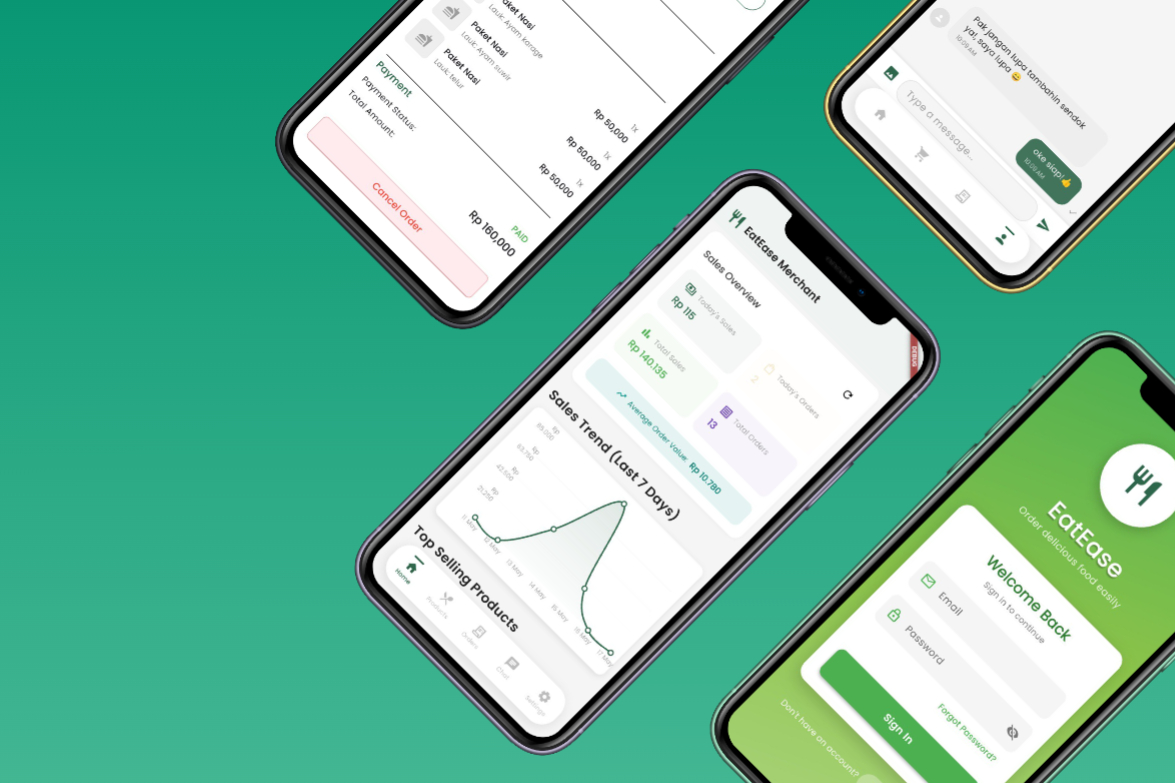
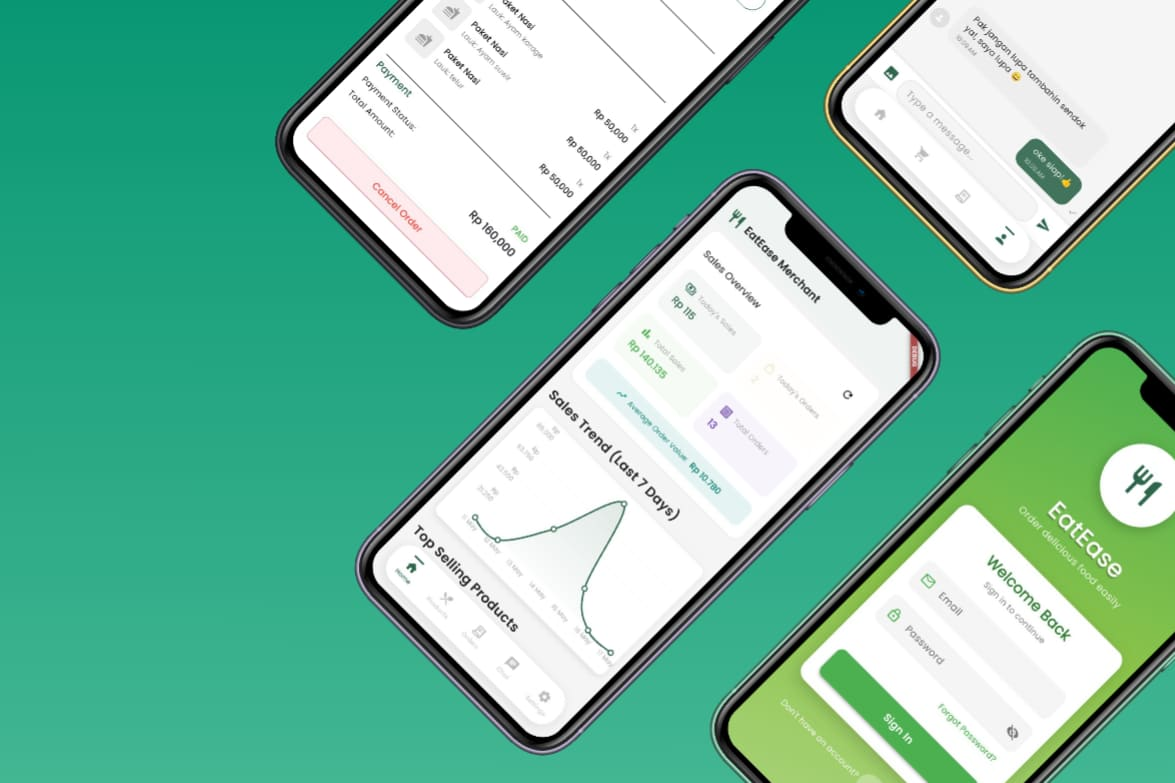
Improve nav hash jumps, button styles, and compress thumbnails.
Jump straight to home sections from portfolio, match View CV to Get in touch, style active nav links, and shrink brand thumbnail assets.

diff --git a/src/components/Contact.tsx b/src/components/Contact.tsx
@@ -1,50 +1,82 @@
-import { motion } from 'framer-motion'
+import { motion } from "framer-motion";
 
 const contactItems = [
   {
     icon: (
-      <svg xmlns="http://www.w3.org/2000/svg" viewBox="0 0 24 24" fill="none" stroke="currentColor" strokeWidth="2" strokeLinecap="round" strokeLinejoin="round">
+      <svg
+        xmlns="http://www.w3.org/2000/svg"
+        viewBox="0 0 24 24"
+        fill="none"
+        stroke="currentColor"
+        strokeWidth="2"
+        strokeLinecap="round"
+        strokeLinejoin="round"
+      >
         <rect width="20" height="16" x="2" y="4" rx="2" />
         <path d="m22 7-8.97 5.7a1.94 1.94 0 0 1-2.06 0L2 7" />
       </svg>
     ),
-    label: 'EMAIL',
-    value: 'sibgahrk190@gmail.com',
-    href: 'mailto:sibgahrk190@gmail.com',
+    label: "EMAIL",
+    value: "sibgahrk190@gmail.com",
+    href: "mailto:sibgahrk190@gmail.com",
   },
   {
     icon: (
-      <svg xmlns="http://www.w3.org/2000/svg" viewBox="0 0 24 24" fill="none" stroke="currentColor" strokeWidth="2" strokeLinecap="round" strokeLinejoin="round">
+      <svg
+        xmlns="http://www.w3.org/2000/svg"
+        viewBox="0 0 24 24"
+        fill="none"
+        stroke="currentColor"
+        strokeWidth="2"
+        strokeLinecap="round"
+        strokeLinejoin="round"
+      >
         <path d="M10 13a5 5 0 0 0 7.54.54l3-3a5 5 0 0 0-7.07-7.07l-1.72 1.71" />
         <path d="M14 11a5 5 0 0 0-7.54-.54l-3 3a5 5 0 0 0 7.07 7.07l1.71-1.71" />
       </svg>
     ),
-    label: 'LINKEDIN',
-    value: 'linkedin.com/in/sibgah',
-    href: 'https://www.linkedin.com/in/sibgah/',
+    label: "LINKEDIN",
+    value: "linkedin.com/in/sibgah",
+    href: "https://www.linkedin.com/in/sibgah/",
   },
   {
     icon: (
-      <svg xmlns="http://www.w3.org/2000/svg" viewBox="0 0 24 24" fill="none" stroke="currentColor" strokeWidth="2" strokeLinecap="round" strokeLinejoin="round">
+      <svg
+        xmlns="http://www.w3.org/2000/svg"
+        viewBox="0 0 24 24"
+        fill="none"
+        stroke="currentColor"
+        strokeWidth="2"
+        strokeLinecap="round"
+        strokeLinejoin="round"
+      >
         <path d="M22 16.92v3a2 2 0 0 1-2.18 2 19.79 19.79 0 0 1-8.63-3.07 19.5 19.5 0 0 1-6-6 19.79 19.79 0 0 1-3.07-8.67A2 2 0 0 1 4.11 2h3a2 2 0 0 1 2 1.72 12.84 12.84 0 0 0 .7 2.81 2 2 0 0 1-.45 2.11L8.09 9.91a16 16 0 0 0 6 6l1.27-1.27a2 2 0 0 1 2.11-.45 12.84 12.84 0 0 0 2.81.7A2 2 0 0 1 22 16.92z" />
       </svg>
     ),
-    label: 'PHONE',
-    value: '+62 813-1414-7941',
-    href: 'tel:+6281314147941',
+    label: "PHONE",
+    value: "+62 813-1414-7941",
+    href: "tel:+6281314147941",
   },
   {
     icon: (
-      <svg xmlns="http://www.w3.org/2000/svg" viewBox="0 0 24 24" fill="none" stroke="currentColor" strokeWidth="2" strokeLinecap="round" strokeLinejoin="round">
+      <svg
+        xmlns="http://www.w3.org/2000/svg"
+        viewBox="0 0 24 24"
+        fill="none"
+        stroke="currentColor"
+        strokeWidth="2"
+        strokeLinecap="round"
+        strokeLinejoin="round"
+      >
         <path d="M20 10c0 6-8 12-8 12s-8-6-8-12a8 8 0 0 1 16 0Z" />
         <circle cx="12" cy="10" r="3" />
       </svg>
     ),
-    label: 'LOCATION',
-    value: 'Tangerang, Indonesia',
+    label: "LOCATION",
+    value: "Tangerang, Indonesia",
     href: undefined,
   },
-]
+];
 
 export default function Contact() {
   return (
@@ -59,15 +91,20 @@ export default function Contact() {
           className="contact-left"
         >
           <h2>
-            LET'S WORK<br />TOGETHER
+            LET'S WORK
+            <br />
+            TOGETHER
           </h2>
           <p className="contact-description">
-            I'm currently open for new projects and collaborations. Let's create 
+            I'm currently open for new projects and collaborations. Let's create
             something amazing that drives results.
           </p>
-          <a href="mailto:sibgahrk190@gmail.com" className="contact-freelance-badge">
+          <a
+            href="mailto:sibgahrk190@gmail.com"
+            className="contact-freelance-badge"
+          >
             <span className="badge-arrow">→</span>
-            <span>AVAILABLE FOR FREELANCE</span>
+            <span>Get in touch</span>
           </a>
         </motion.div>
 
@@ -80,27 +117,33 @@ export default function Contact() {
           className="contact-right"
         >
           {contactItems.map((item, idx) => {
-            const Wrapper = item.href ? 'a' : 'div'
+            const Wrapper = item.href ? "a" : "div";
             const linkProps = item.href
               ? {
                   href: item.href,
-                  target: item.href.startsWith('http') ? '_blank' : undefined,
-                  rel: item.href.startsWith('http') ? 'noopener noreferrer' : undefined,
+                  target: item.href.startsWith("http") ? "_blank" : undefined,
+                  rel: item.href.startsWith("http")
+                    ? "noopener noreferrer"
+                    : undefined,
                 }
-              : {}
+              : {};
 
             return (
-              <Wrapper key={idx} className="contact-item" {...(linkProps as any)}>
+              <Wrapper
+                key={idx}
+                className="contact-item"
+                {...(linkProps as any)}
+              >
                 <div className="contact-item-icon">{item.icon}</div>
                 <div className="contact-item-content">
                   <span className="contact-item-label">{item.label}</span>
                   <span className="contact-item-value">{item.value}</span>
                 </div>
               </Wrapper>
-            )
+            );
           })}
         </motion.div>
       </div>
     </section>
-  )
+  );
 }

diff --git a/src/components/Navbar.tsx b/src/components/Navbar.tsx
@@ -1,4 +1,4 @@
-import { useEffect, useRef, useState } from "react";
+import { useEffect, useLayoutEffect, useRef, useState } from "react";
 import { useLocation, useNavigate } from "react-router-dom";
 import { motion } from "framer-motion";
 import { Home, Briefcase, LayoutGrid, History, Mail } from "lucide-react";
@@ -28,12 +28,13 @@ interface NavLink {
   hash: string | null;
 }
 
-function scrollToId(id: string) {
+const NAV_OFFSET = 88;
+
+function scrollToId(id: string, behavior: ScrollBehavior = "smooth") {
   const el = document.getElementById(id);
   if (!el) return;
-  const offset = 88;
-  const top = el.getBoundingClientRect().top + window.scrollY - offset;
-  window.scrollTo({ top, behavior: "smooth" });
+  const top = el.getBoundingClientRect().top + window.scrollY - NAV_OFFSET;
+  window.scrollTo({ top, behavior });
 }
 
 export default function Navbar() {
@@ -45,6 +46,9 @@ export default function Navbar() {
   const [glowing, setGlowing] = useState(false);
   const pinnedHashRef = useRef<string | null>(null);
   const releasePinRef = useRef<() => void>(() => {});
+  // Track previous pathname so hash jumps from /portfolio (etc.) land
+  // instantly on the section instead of animating down from Home.
+  const prevPathRef = useRef(location.pathname);
 
   // Pin the active tab to a target section immediately (optimistic), ignoring
   // scroll-based detection until the resulting smooth-scroll settles. Without
@@ -77,14 +81,27 @@ export default function Navbar() {
     return () => window.removeEventListener("scroll", onScroll);
   }, []);
 
-  // Scroll to hash after route change (e.g. from /portfolio → /#services)
-  useEffect(() => {
+  // Scroll to hash after route change (e.g. from /portfolio → /#experience).
+  // useLayoutEffect + instant scroll when coming from another page so the
+  // hero entrance never plays while we "start from home".
+  useLayoutEffect(() => {
+    const cameFromOtherPage = prevPathRef.current !== "/";
+    prevPathRef.current = location.pathname;
+
     if (location.pathname !== "/") return;
     const hash = location.hash.replace("#", "");
     if (!hash) return;
+
     pinActive(hash);
-    const timer = window.setTimeout(() => scrollToId(hash), 80);
-    return () => window.clearTimeout(timer);
+
+    const behavior: ScrollBehavior = cameFromOtherPage ? "auto" : "smooth";
+    scrollToId(hash, behavior);
+
+    // Retry once after paint in case section layout settles late.
+    const raf = window.requestAnimationFrame(() => {
+      scrollToId(hash, behavior);
+    });
+    return () => window.cancelAnimationFrame(raf);
   }, [location.pathname, location.hash]);
 
   // Highlight current section while scrolling on home
@@ -142,7 +159,8 @@ export default function Navbar() {
       return;
     }
 
-    pinActive(link.hash ?? "home");
+    const hash = link.hash ?? "home";
+    pinActive(hash);
 
     if (!link.hash) {
       navigate("/");
@@ -151,10 +169,11 @@ export default function Navbar() {
 
     if (location.pathname === "/") {
       navigate(`/#${link.hash}`, { replace: true });
-      scrollToId(link.hash);
+      scrollToId(link.hash, "smooth");
       return;
     }
 
+    // Cross-route: navigate with hash; useLayoutEffect jumps instantly.
     navigate(`/#${link.hash}`);
   }
 

diff --git a/src/index.css b/src/index.css
@@ -363,8 +363,8 @@ p {
 }
 
 .nav-link.is-active {
-  color: var(--ink);
-  background: rgba(255, 255, 255, 0.06);
+  color: #fff;
+  background: #e63946;
 }
 
 @media (min-width: 900px) {
@@ -624,27 +624,54 @@ p {
   margin-top: 0.75rem;
   padding: 0.75rem 1.25rem;
   border-radius: 999px;
-  border: 1px solid var(--line);
+  border: 1px solid #e63946;
   background: transparent;
-  color: var(--ink);
+  color: #e63946;
   font-family: var(--font-display);
   font-size: 0.78rem;
   font-weight: 700;
   letter-spacing: 0.1em;
   text-transform: uppercase;
   cursor: pointer;
+  position: relative;
+  overflow: hidden;
+  -webkit-tap-highlight-color: transparent;
   transition:
-    border-color 0.2s ease,
-    box-shadow 0.2s ease,
-    color 0.2s ease;
+    color 0.35s cubic-bezier(0.22, 1, 0.36, 1),
+    background 0.35s cubic-bezier(0.22, 1, 0.36, 1),
+    border-color 0.35s cubic-bezier(0.22, 1, 0.36, 1),
+    box-shadow 0.35s cubic-bezier(0.22, 1, 0.36, 1);
 }
 
-.hero-cv-btn:hover {
-  border-color: rgba(230, 57, 70, 0.75);
-  color: #ff6b7a;
-  box-shadow:
-    0 0 0 1px rgba(230, 57, 70, 0.75),
-    0 0 18px rgba(230, 57, 70, 0.35);
+.hero-cv-btn::before {
+  content: "";
+  position: absolute;
+  inset: 0;
+  background: #e63946;
+  transform: translateX(-100%);
+  transition: transform 0.4s cubic-bezier(0.22, 1, 0.36, 1);
+  z-index: 0;
+}
+
+.hero-cv-btn:hover::before,
+.hero-cv-btn:active::before,
+.hero-cv-btn:focus-visible::before {
+  transform: translateX(0);
+}
+
+.hero-cv-btn:hover,
+.hero-cv-btn:active,
+.hero-cv-btn:focus-visible {
+  color: #fff;
+  background: #e63946;
+  border-color: #e63946;
+  box-shadow: 0 0 30px var(--accent-glow);
+}
+
+.hero-cv-btn-icon,
+.hero-cv-btn > span {
+  position: relative;
+  z-index: 1;
 }
 
 .hero-cv-btn-icon {

diff --git a/src/components/Hero.tsx b/src/components/Hero.tsx
@@ -131,7 +131,7 @@ export default function Hero() {
             onClick={() => setCvOpen(true)}
           >
             <FileText className="hero-cv-btn-icon" aria-hidden />
-            View CV
+            <span>View CV</span>
           </button>
         </motion.div>
 
